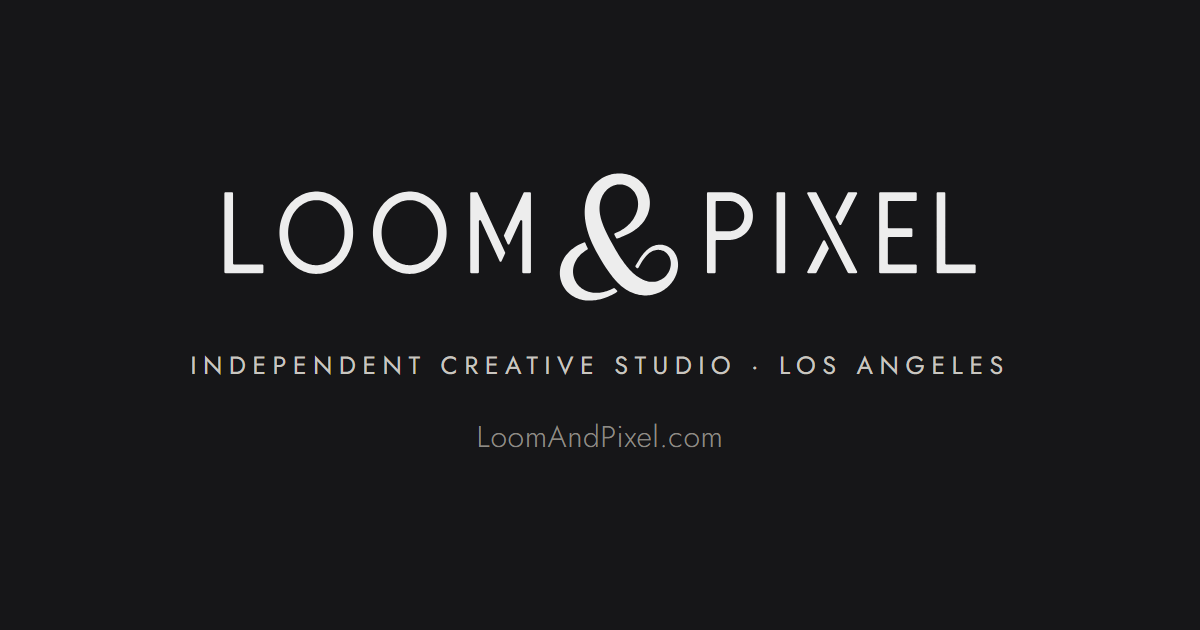
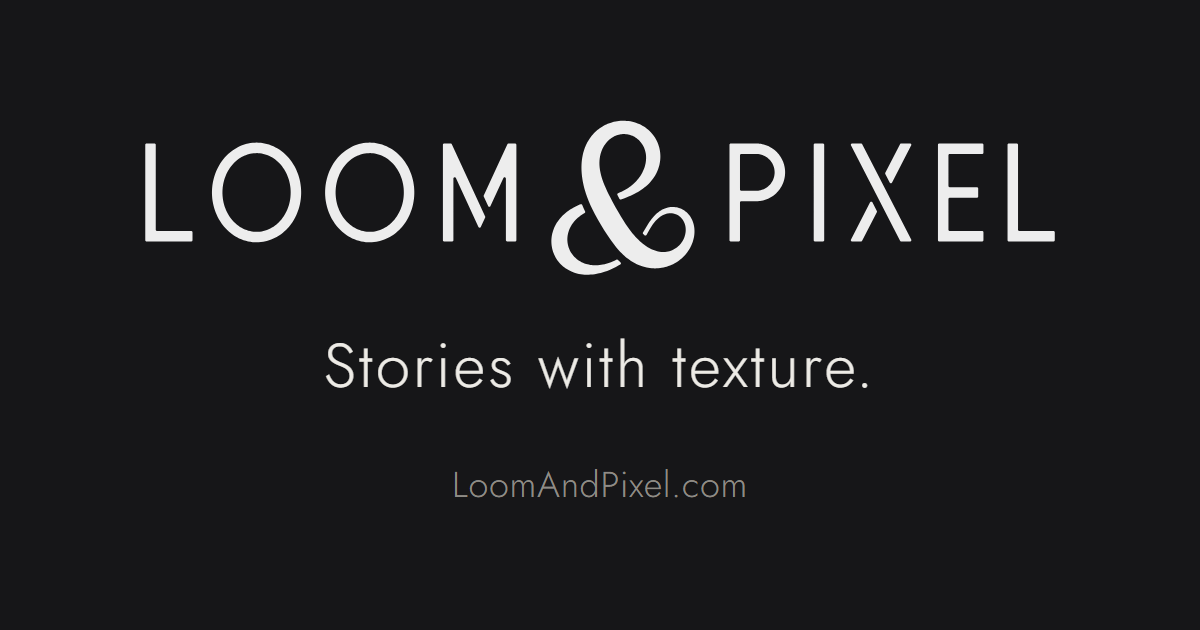
Add tagline to the hero and link-preview card
Stories with texture. sits under the hero logo, leads the homepage description, and is in the og-image (larger logo and text for phone previews).

diff --git a/style.css b/style.css
@@ -137,6 +137,7 @@ body.home .site-header { position: absolute; top: 0; left: 0; right: 0; }
 .hero-inner { display: flex; flex-direction: column; align-items: center; gap: 36px; text-align: center; }
 .hero-logo { color: var(--fg); line-height: 0; }
 .hero-logo .lp-logo { width: min(600px, 82vw); height: auto; }
+.hero-tagline { margin-bottom: -8px; font-size: clamp(22px, 2.2vw, 30px); font-weight: 300; letter-spacing: 0.04em; color: var(--fg); }
 .hero-statement { max-width: 820px; font-size: clamp(19px, 1.7vw, 24px); line-height: 1.55; color: var(--soft); }
 .hero-place {
     position: absolute; right: var(--gutter); bottom: 32px;

diff --git a/_includes/head.html b/_includes/head.html
@@ -36,7 +36,7 @@
 <meta property="og:image" content="{{ page.share_image | absolute_url }}">
 <meta property="og:image:alt" content="{{ page.title | escape }} — Loom & Pixel">
 {% else %}
-<meta property="og:image" content="{{ '/assets/img/og-image.png' | absolute_url }}?v=3">
+<meta property="og:image" content="{{ '/assets/img/og-image.png' | absolute_url }}?v=4">
 <meta property="og:image:alt" content="Loom & Pixel — independent creative studio, Los Angeles">
 {% endif %}
 <meta property="og:image:width" content="1200">

diff --git a/_includes/hero.html b/_includes/hero.html
@@ -7,6 +7,7 @@
             {% include brand/logo-horizontal.svg %}
         </h1>
         <script src="/assets/js/logo-draw.js?v={{ site.time | date: '%s' }}"></script>
+        <p class="hero-tagline">Stories with texture.</p>
         <p class="hero-statement">An independent creative studio making cinematic 3D, VFX, and design for brands, studios, and stages.</p>
     </div>
     <p class="hero-place">Los Angeles</p>

diff --git a/index.html b/index.html
@@ -1,5 +1,6 @@
 ---
 title: Loom & Pixel | Creative Studio
+description: Stories with texture. Loom & Pixel is an independent creative studio in Los Angeles — art direction and design, 3D animation and storytelling, VFX and CG production, and commercial and brand content.
 body_class: home
 ---
 {% include hero.html %}
